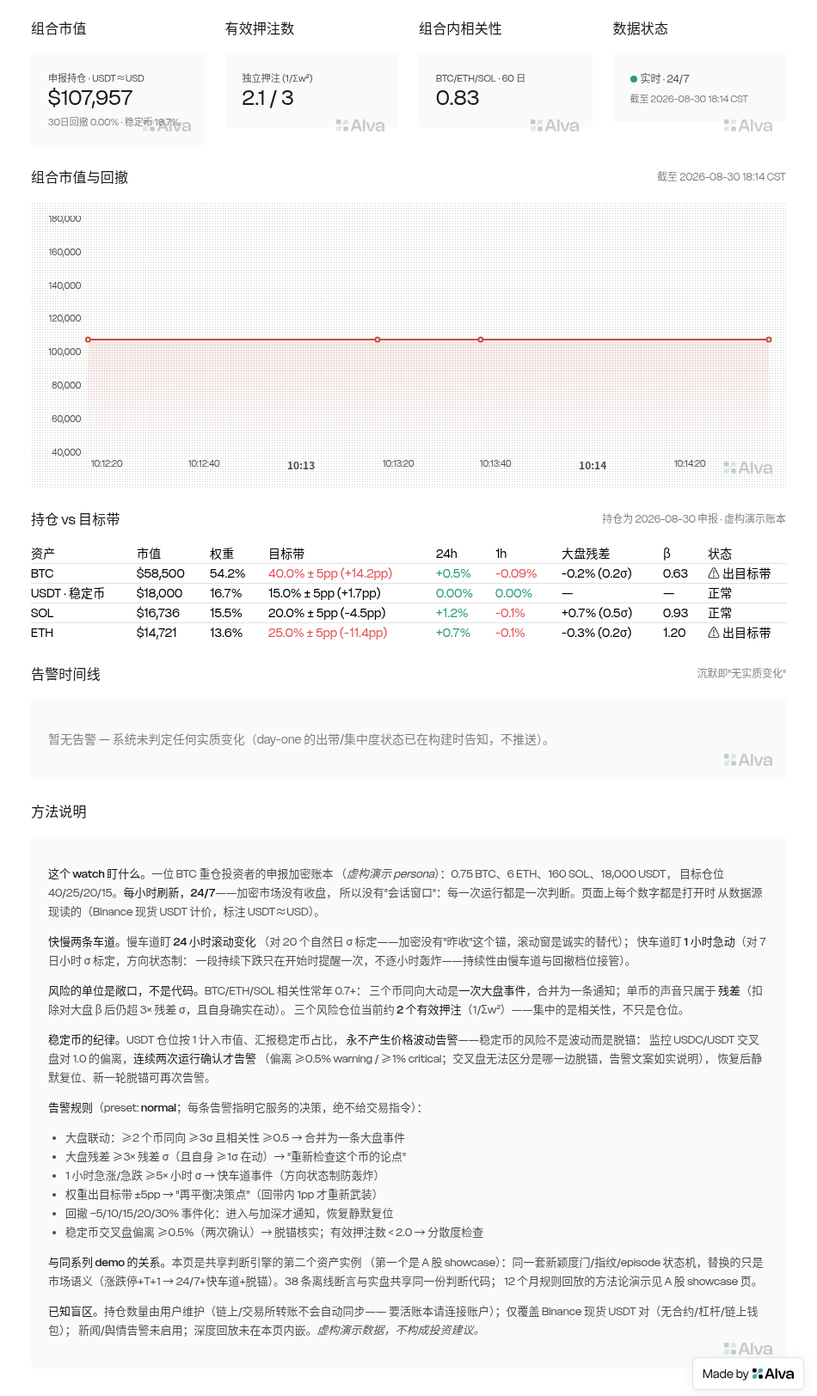
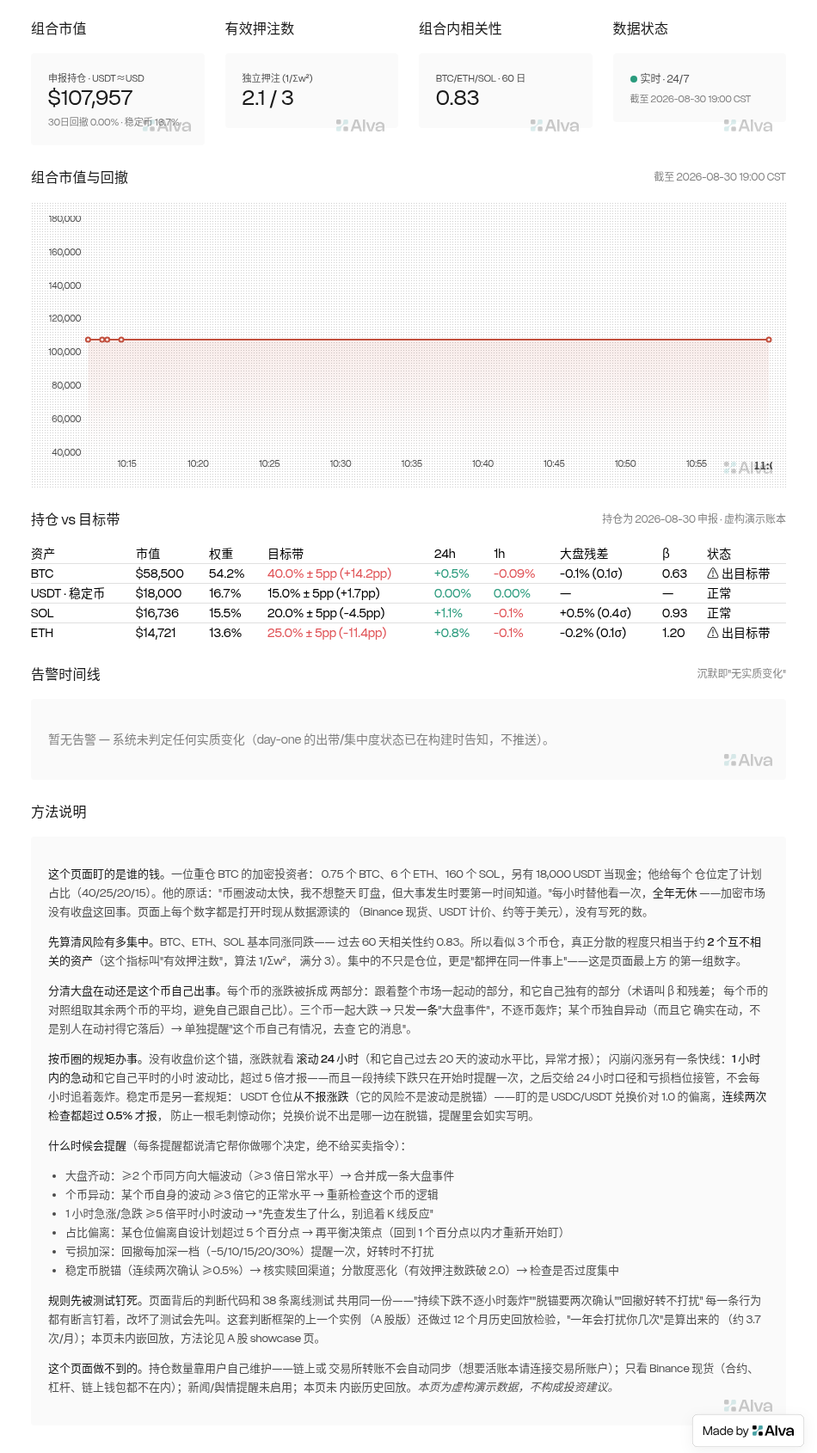
crypto-book v1.0.2: copy aligned to the showcase's three feedback rounds
Description rewritten as a numbered-list visitor opening (Markdown renders
in descriptions); method panel rewritten in the showcase's seven plain-
language sections (whose money / how concentrated / market vs single coin /
crypto-market rules / when it speaks / pinned by tests / what it can't do)
with every bare term replaced by plain-words-first-jargon-in-parentheses;
README restructured as persona's three questions + five principles +
decision-column rule table. Lint 0/0/0; deployed HTML byte-identical to
local; judgment logic unchanged. Evidence copies + e2e-log updated with
the archived description text.

diff --git a/demo-crypto-book/playbook/index.html b/demo-crypto-book/playbook/index.html
@@ -116,40 +116,49 @@
       <div class="widget-title"><span class="widget-title-text">方法说明</span></div>
       <div class="widget-body" style="background:var(--grey-g01);flex-direction:column;align-items:stretch;">
         <div class="free-text-body method-body" style="width:100%;">
-          <p><strong>这个 watch 盯什么。</strong>一位 BTC 重仓投资者的申报加密账本
-          （<em>虚构演示 persona</em>）：0.75 BTC、6 ETH、160 SOL、18,000 USDT，
-          目标仓位 40/25/20/15。<strong>每小时刷新，24/7</strong>——加密市场没有收盘，
-          所以没有"会话窗口"：每一次运行都是一次判断。页面上每个数字都是打开时
-          从数据源现读的（Binance 现货 USDT 计价，标注 USDT≈USD）。</p>
-          <p><strong>快慢两条车道。</strong>慢车道盯 <strong>24 小时滚动变化</strong>
-          （对 20 个自然日 σ 标定——加密没有"昨收"这个锚，滚动窗是诚实的替代）；
-          快车道盯 <strong>1 小时急动</strong>（对 7 日小时 σ 标定，方向状态制：
-          一段持续下跌只在开始时提醒一次，不逐小时轰炸——持续性由慢车道与回撤档位接管）。</p>
-          <p><strong>风险的单位是敞口，不是代码。</strong>BTC/ETH/SOL 相关性常年 0.7+：
-          三个币同向大动是<strong>一次大盘事件</strong>，合并为一条通知；单币的声音只属于
-          <strong>残差</strong>（扣除对大盘 β 后仍超 3× 残差 σ，且自身确实在动）。
-          三个风险仓位当前约 <strong>2 个有效押注</strong>（1/Σw²）——集中的是相关性，不只是仓位。</p>
-          <p><strong>稳定币的纪律。</strong>USDT 仓位按 1 计入市值、汇报稳定币占比，
-          <strong>永不产生价格波动告警</strong>——稳定币的风险不是波动而是脱锚：
-          监控 USDC/USDT 交叉盘对 1.0 的偏离，<strong>连续两次运行确认才告警</strong>
-          （偏离 ≥0.5% warning / ≥1% critical；交叉盘无法区分是哪一边脱锚，告警文案如实说明），
-          恢复后静默复位、新一轮脱锚可再次告警。</p>
-          <p><strong>告警规则</strong>（preset: <strong>normal</strong>；每条告警指明它服务的决策，绝不给交易指令）：</p>
+          <p><strong>这个页面盯的是谁的钱。</strong>一位重仓 BTC 的加密投资者：
+          0.75 个 BTC、6 个 ETH、160 个 SOL，另有 18,000 USDT 当现金；他给每个
+          仓位定了计划占比（40/25/20/15）。他的原话："币圈波动太快，我不想整天
+          盯盘，但大事发生时要第一时间知道。"每小时替他看一次，<strong>全年无休</strong>
+          ——加密市场没有收盘这回事。页面上每个数字都是打开时现从数据源读的
+          （Binance 现货、USDT 计价、约等于美元），没有写死的数。</p>
+          <p><strong>先算清风险有多集中。</strong>BTC、ETH、SOL 基本同涨同跌——
+          过去 60 天相关性约 0.83。所以看似 3 个币仓，真正分散的程度只相当于约
+          <strong>2 个互不相关的资产</strong>（这个指标叫"有效押注数"，算法 1/Σw²，
+          满分 3）。集中的不只是仓位，更是"都押在同一件事上"——这是页面最上方
+          的第一组数字。</p>
+          <p><strong>分清大盘在动还是这个币自己出事。</strong>每个币的涨跌被拆成
+          两部分：跟着整个市场一起动的部分，和它自己独有的部分（术语叫 β 和残差；
+          每个币的对照组取其余两个币的平均，避免自己跟自己比）。三个币一起大跌 →
+          只发<strong>一条</strong>"大盘事件"，不逐币轰炸；某个币独自异动（而且它
+          确实在动，不是别人在动衬得它落后）→ 单独提醒"这个币自己有情况，去查
+          它的消息"。</p>
+          <p><strong>按币圈的规矩办事。</strong>没有收盘价这个锚，涨跌就看
+          <strong>滚动 24 小时</strong>（和它自己过去 20 天的波动水平比，异常才报）；
+          闪崩闪涨另有一条快线：<strong>1 小时内的急动</strong>和它自己平时的小时
+          波动比，超过 5 倍才报——而且一段持续下跌只在开始时提醒一次，之后交给
+          24 小时口径和亏损档位接管，不会每小时追着轰炸。稳定币是另一套规矩：
+          USDT 仓位<strong>从不报涨跌</strong>（它的风险不是波动是脱锚）——盯的是
+          USDC/USDT 兑换价对 1.0 的偏离，<strong>连续两次检查都超过 0.5% 才报</strong>，
+          防止一根毛刺惊动你；兑换价说不出是哪一边在脱锚，提醒里会如实写明。</p>
+          <p><strong>什么时候会提醒</strong>（每条提醒都说清它帮你做哪个决定，绝不给买卖指令）：</p>
           <ul>
-            <li>大盘联动：≥2 个币同向 ≥3σ 且相关性 ≥0.5 → 合并为一条大盘事件</li>
-            <li>大盘残差 ≥3× 残差 σ（且自身 ≥1σ 在动）→ "重新检查这个币的论点"</li>
-            <li>1 小时急涨/急跌 ≥5× 小时 σ → 快车道事件（方向状态制防轰炸）</li>
-            <li>权重出目标带 ±5pp → "再平衡决策点"（回带内 1pp 才重新武装）</li>
-            <li>回撤 −5/10/15/20/30% 事件化：进入与加深才通知，恢复静默复位</li>
-            <li>稳定币交叉盘偏离 ≥0.5%（两次确认）→ 脱锚核实；有效押注数 &lt; 2.0 → 分散度检查</li>
+            <li>大盘齐动：≥2 个币同方向大幅波动（≥3 倍日常水平）→ 合并成一条大盘事件</li>
+            <li>个币异动：某个币自身的波动 ≥3 倍它的正常水平 → 重新检查这个币的逻辑</li>
+            <li>1 小时急涨/急跌 ≥5 倍平时小时波动 → "先查发生了什么，别追着 K 线反应"</li>
+            <li>占比偏离：某仓位偏离自设计划超过 5 个百分点 → 再平衡决策点（回到 1 个百分点以内才重新开始盯）</li>
+            <li>亏损加深：回撤每加深一档（−5/10/15/20/30%）提醒一次，好转时不打扰</li>
+            <li>稳定币脱锚（连续两次确认 ≥0.5%）→ 核实赎回渠道；分散度恶化（有效押注数跌破 2.0）→ 检查是否过度集中</li>
           </ul>
-          <p><strong>与同系列 demo 的关系。</strong>本页是共享判断引擎的第二个资产实例
-          （第一个是 A 股 showcase）：同一套新颖度门/指纹/episode 状态机，替换的只是
-          市场语义（涨跌停+T+1 → 24/7+快车道+脱锚）。38 条离线断言与实盘共享同一份判断代码；
-          12 个月规则回放的方法论演示见 A 股 showcase 页。</p>
-          <p><strong>已知盲区。</strong>持仓数量由用户维护（链上/交易所转账不会自动同步——
-          要活账本请连接账户）；仅覆盖 Binance 现货 USDT 对（无合约/杠杆/链上钱包）；
-          新闻/舆情告警未启用；深度回放未在本页内嵌。<em>虚构演示数据，不构成投资建议。</em></p>
+          <p><strong>规则先被测试钉死。</strong>页面背后的判断代码和 38 条离线测试
+          共用同一份——"持续下跌不逐小时轰炸""脱锚要两次确认""回撤好转不打扰"
+          每一条行为都有断言钉着，改坏了测试会先叫。这套判断框架的上一个实例
+          （A 股版）还做过 12 个月历史回放检验，"一年会打扰你几次"是算出来的
+          （约 3.7 次/月）；本页未内嵌回放，方法论见 A 股 showcase 页。</p>
+          <p><strong>这个页面做不到的。</strong>持仓数量靠用户自己维护——链上或
+          交易所转账不会自动同步（想要活账本请连接交易所账户）；只看 Binance
+          现货（合约、杠杆、链上钱包都不在内）；新闻/舆情提醒未启用；本页未
+          内嵌历史回放。<em>本页为虚构演示数据，不构成投资建议。</em></p>
         </div>
         <div class="alva-watermark"><img src="https://alva-ai-static.b-cdn.net/icons/alva-watermark.svg" alt="Alva" /></div>
       </div>

diff --git a/demo-evidence-crypto-book/10-playbook-index.html b/demo-evidence-crypto-book/10-playbook-index.html
@@ -116,40 +116,49 @@
       <div class="widget-title"><span class="widget-title-text">方法说明</span></div>
       <div class="widget-body" style="background:var(--grey-g01);flex-direction:column;align-items:stretch;">
         <div class="free-text-body method-body" style="width:100%;">
-          <p><strong>这个 watch 盯什么。</strong>一位 BTC 重仓投资者的申报加密账本
-          （<em>虚构演示 persona</em>）：0.75 BTC、6 ETH、160 SOL、18,000 USDT，
-          目标仓位 40/25/20/15。<strong>每小时刷新，24/7</strong>——加密市场没有收盘，
-          所以没有"会话窗口"：每一次运行都是一次判断。页面上每个数字都是打开时
-          从数据源现读的（Binance 现货 USDT 计价，标注 USDT≈USD）。</p>
-          <p><strong>快慢两条车道。</strong>慢车道盯 <strong>24 小时滚动变化</strong>
-          （对 20 个自然日 σ 标定——加密没有"昨收"这个锚，滚动窗是诚实的替代）；
-          快车道盯 <strong>1 小时急动</strong>（对 7 日小时 σ 标定，方向状态制：
-          一段持续下跌只在开始时提醒一次，不逐小时轰炸——持续性由慢车道与回撤档位接管）。</p>
-          <p><strong>风险的单位是敞口，不是代码。</strong>BTC/ETH/SOL 相关性常年 0.7+：
-          三个币同向大动是<strong>一次大盘事件</strong>，合并为一条通知；单币的声音只属于
-          <strong>残差</strong>（扣除对大盘 β 后仍超 3× 残差 σ，且自身确实在动）。
-          三个风险仓位当前约 <strong>2 个有效押注</strong>（1/Σw²）——集中的是相关性，不只是仓位。</p>
-          <p><strong>稳定币的纪律。</strong>USDT 仓位按 1 计入市值、汇报稳定币占比，
-          <strong>永不产生价格波动告警</strong>——稳定币的风险不是波动而是脱锚：
-          监控 USDC/USDT 交叉盘对 1.0 的偏离，<strong>连续两次运行确认才告警</strong>
-          （偏离 ≥0.5% warning / ≥1% critical；交叉盘无法区分是哪一边脱锚，告警文案如实说明），
-          恢复后静默复位、新一轮脱锚可再次告警。</p>
-          <p><strong>告警规则</strong>（preset: <strong>normal</strong>；每条告警指明它服务的决策，绝不给交易指令）：</p>
+          <p><strong>这个页面盯的是谁的钱。</strong>一位重仓 BTC 的加密投资者：
+          0.75 个 BTC、6 个 ETH、160 个 SOL，另有 18,000 USDT 当现金；他给每个
+          仓位定了计划占比（40/25/20/15）。他的原话："币圈波动太快，我不想整天
+          盯盘，但大事发生时要第一时间知道。"每小时替他看一次，<strong>全年无休</strong>
+          ——加密市场没有收盘这回事。页面上每个数字都是打开时现从数据源读的
+          （Binance 现货、USDT 计价、约等于美元），没有写死的数。</p>
+          <p><strong>先算清风险有多集中。</strong>BTC、ETH、SOL 基本同涨同跌——
+          过去 60 天相关性约 0.83。所以看似 3 个币仓，真正分散的程度只相当于约
+          <strong>2 个互不相关的资产</strong>（这个指标叫"有效押注数"，算法 1/Σw²，
+          满分 3）。集中的不只是仓位，更是"都押在同一件事上"——这是页面最上方
+          的第一组数字。</p>
+          <p><strong>分清大盘在动还是这个币自己出事。</strong>每个币的涨跌被拆成
+          两部分：跟着整个市场一起动的部分，和它自己独有的部分（术语叫 β 和残差；
+          每个币的对照组取其余两个币的平均，避免自己跟自己比）。三个币一起大跌 →
+          只发<strong>一条</strong>"大盘事件"，不逐币轰炸；某个币独自异动（而且它
+          确实在动，不是别人在动衬得它落后）→ 单独提醒"这个币自己有情况，去查
+          它的消息"。</p>
+          <p><strong>按币圈的规矩办事。</strong>没有收盘价这个锚，涨跌就看
+          <strong>滚动 24 小时</strong>（和它自己过去 20 天的波动水平比，异常才报）；
+          闪崩闪涨另有一条快线：<strong>1 小时内的急动</strong>和它自己平时的小时
+          波动比，超过 5 倍才报——而且一段持续下跌只在开始时提醒一次，之后交给
+          24 小时口径和亏损档位接管，不会每小时追着轰炸。稳定币是另一套规矩：
+          USDT 仓位<strong>从不报涨跌</strong>（它的风险不是波动是脱锚）——盯的是
+          USDC/USDT 兑换价对 1.0 的偏离，<strong>连续两次检查都超过 0.5% 才报</strong>，
+          防止一根毛刺惊动你；兑换价说不出是哪一边在脱锚，提醒里会如实写明。</p>
+          <p><strong>什么时候会提醒</strong>（每条提醒都说清它帮你做哪个决定，绝不给买卖指令）：</p>
           <ul>
-            <li>大盘联动：≥2 个币同向 ≥3σ 且相关性 ≥0.5 → 合并为一条大盘事件</li>
-            <li>大盘残差 ≥3× 残差 σ（且自身 ≥1σ 在动）→ "重新检查这个币的论点"</li>
-            <li>1 小时急涨/急跌 ≥5× 小时 σ → 快车道事件（方向状态制防轰炸）</li>
-            <li>权重出目标带 ±5pp → "再平衡决策点"（回带内 1pp 才重新武装）</li>
-            <li>回撤 −5/10/15/20/30% 事件化：进入与加深才通知，恢复静默复位</li>
-            <li>稳定币交叉盘偏离 ≥0.5%（两次确认）→ 脱锚核实；有效押注数 &lt; 2.0 → 分散度检查</li>
+            <li>大盘齐动：≥2 个币同方向大幅波动（≥3 倍日常水平）→ 合并成一条大盘事件</li>
+            <li>个币异动：某个币自身的波动 ≥3 倍它的正常水平 → 重新检查这个币的逻辑</li>
+            <li>1 小时急涨/急跌 ≥5 倍平时小时波动 → "先查发生了什么，别追着 K 线反应"</li>
+            <li>占比偏离：某仓位偏离自设计划超过 5 个百分点 → 再平衡决策点（回到 1 个百分点以内才重新开始盯）</li>
+            <li>亏损加深：回撤每加深一档（−5/10/15/20/30%）提醒一次，好转时不打扰</li>
+            <li>稳定币脱锚（连续两次确认 ≥0.5%）→ 核实赎回渠道；分散度恶化（有效押注数跌破 2.0）→ 检查是否过度集中</li>
           </ul>
-          <p><strong>与同系列 demo 的关系。</strong>本页是共享判断引擎的第二个资产实例
-          （第一个是 A 股 showcase）：同一套新颖度门/指纹/episode 状态机，替换的只是
-          市场语义（涨跌停+T+1 → 24/7+快车道+脱锚）。38 条离线断言与实盘共享同一份判断代码；
-          12 个月规则回放的方法论演示见 A 股 showcase 页。</p>
-          <p><strong>已知盲区。</strong>持仓数量由用户维护（链上/交易所转账不会自动同步——
-          要活账本请连接账户）；仅覆盖 Binance 现货 USDT 对（无合约/杠杆/链上钱包）；
-          新闻/舆情告警未启用；深度回放未在本页内嵌。<em>虚构演示数据，不构成投资建议。</em></p>
+          <p><strong>规则先被测试钉死。</strong>页面背后的判断代码和 38 条离线测试
+          共用同一份——"持续下跌不逐小时轰炸""脱锚要两次确认""回撤好转不打扰"
+          每一条行为都有断言钉着，改坏了测试会先叫。这套判断框架的上一个实例
+          （A 股版）还做过 12 个月历史回放检验，"一年会打扰你几次"是算出来的
+          （约 3.7 次/月）；本页未内嵌回放，方法论见 A 股 showcase 页。</p>
+          <p><strong>这个页面做不到的。</strong>持仓数量靠用户自己维护——链上或
+          交易所转账不会自动同步（想要活账本请连接交易所账户）；只看 Binance
+          现货（合约、杠杆、链上钱包都不在内）；新闻/舆情提醒未启用；本页未
+          内嵌历史回放。<em>本页为虚构演示数据，不构成投资建议。</em></p>
         </div>
         <div class="alva-watermark"><img src="https://alva-ai-static.b-cdn.net/icons/alva-watermark.svg" alt="Alva" /></div>
       </div>

diff --git a/demo-crypto-book/playbook/README.md b/demo-crypto-book/playbook/README.md
@@ -1,43 +1,66 @@
-# 加密申报账本监控（Crypto Book Demo）
+# 加密申报账本监控（Crypto Book）
 
-一位 BTC 重仓投资者的**申报加密账本**（虚构演示 persona）：0.75 BTC、6 ETH、
-160 SOL、18,000 USDT，目标仓位 40/25/20/15。每小时刷新，24/7——加密市场
-没有收盘，每一次运行都是一次判断。
+一位**重仓 BTC 的加密投资者**的风险监控页，由 portfolio-watch skill 从
+一句话构建。他的账本：0.75 BTC（约占五成四，重仓）、6 ETH、160 SOL，
+另有 18,000 USDT 当现金；他给每个仓位定了计划占比（40/25/20/15）。
+他的原话："币圈波动太快，我不想整天盯盘，但大事发生时要第一时间知道。"
 
-## 它盯什么
+这个页面回答的就是他这句话背后的三个问题：我的风险到底有多集中？大动
+的时候是整个市场在动还是我的币自己出事？什么时候需要我真的做点什么？
 
-- **快慢两条车道**：24 小时滚动变化（20 自然日 σ 标定）+ 1 小时急动
-  （7 日小时 σ 标定，方向状态制——持续下跌只在开始提醒一次，不逐小时轰炸）。
-- **敞口而非代码**：BTC/ETH/SOL 高相关，同向大动合并为一条大盘事件；
-  单币声音只属于残差（扣 β 后 ≥3× 残差 σ 且自身 ≥1σ 在动）。
-- **稳定币纪律**：USDT 按 1 计值、永不产生波动告警；脱锚经 USDC/USDT
-  交叉盘监控，连续两次运行确认才告警（≥0.5% warning / ≥1% critical）。
-- **状态化组合风险**：目标带 ±5pp 漂移（滞回重武装）、回撤 −5/10/15/20/30%
-  episode（进入/加深才响，恢复静默复位）、有效押注数 < 2.0 提示。
+## 五条设计原则
 
-## 更新节奏与数据
+1. **先算清"钱实际押在几件事上"。** 表面上持有 3 个币仓，但 BTC/ETH/SOL
+   基本同涨同跌（过去 60 天相关性约 0.83），再加上单币重仓——整本账的
+   分散程度只相当于约 **2 个互不相关的资产**（这个指标叫有效押注数，
+   算法 1/Σw²，满分 3）。这是页面最上方的第一组数字：他集中的不只是
+   仓位，更是相关性。
 
-每小时（cron `0 * * * *`，UTC）。价格来自 Binance 现货 USDT 对
-（USDT≈USD 标注）；页面每个数字打开时现读，不缓存、不硬编码。
+2. **分清"大盘在动"和"这个币自己出事"。** 每个币的涨跌被拆成两部分：
+   跟着整个市场一起动的部分，和它自己独有的部分（术语叫 β 与残差；每个
+   币的对照组取*其余*两币的平均，避免自己和自己比）。三个币一起大跌 →
+   合并成**一条**"大盘事件"，不逐币轰炸；某个币独自异动（且它确实在动，
+   不是别人在动衬得它落后）→ 单独提醒"这个币自己有情况，去查它的消息"。
+   重仓者最需要的正是这个区分。
 
-## 阈值一览（preset: normal）
+3. **按 24/7 市场的规矩办事。** 加密没有收盘价这个锚，涨跌看**滚动
+   24 小时**（和它自己过去 20 天的波动水平比）；闪崩闪涨另有一条快线
+   （1 小时急动和它平时的小时波动比，超 5 倍才报），而且一段持续下跌
+   只在开始提醒一次，之后交给 24 小时口径和亏损档位接管——不逐小时
+   轰炸。调度是每小时一次、全年无休：没有"会话窗口"，每次运行都是
+   一次判断。
 
-| 规则 | 阈值 | 严重级 |
+4. **稳定币不看波动，看脱锚。** USDT 仓位按 1 计入市值、汇报占比，
+   **从不产生涨跌提醒**——稳定币的风险不是波动是脱锚。脱锚监控走
+   USDC/USDT 兑换价对 1.0 的偏离，**连续两次检查确认才报**（≥0.5%
+   提醒 / ≥1% 最高级），防止一根毛刺惊动人；兑换价无法区分是哪一边
+   在脱锚，提醒文案如实说明。恢复正常后静默复位，下一轮脱锚可以再报。
+
+5. **每条提醒都说清"它帮你做哪个决定"，且规则先被测试钉死。** 是占比
+   偏离了自设计划该考虑再平衡，是某个币的逻辑要重新检查，还是亏损触到
+   了自己划的线——**绝不给买卖指令**。页面背后的判断代码与 38 条离线
+   测试共用同一份，"持续下跌不轰炸""脱锚两次确认""好转不打扰"每条行为
+   都有断言钉着。同一判断框架的 A 股实例还经过 12 个月历史回放检验
+   （约 3.7 次/月），方法论见 showcase 页。
+
+## 告警规则（preset: normal）
+
+| 规则 | 阈值 | 帮你做的决定 |
 |---|---|---|
-| 24h 波动 | ≥3σ / ≥6σ | warning / critical |
-| 1h 急动 | ≥5× 小时 σ / ≥7.5× | warning / critical |
-| 大盘残差 | ≥3× 残差 σ（自身 ≥1σ） | warning / critical |
-| 大盘联动 | ≥2 币同向 ≥3σ、相关性 ≥0.5 | 合并为一条 |
-| 脱锚 | 偏离 ≥0.5%（两次确认）/ ≥1% | warning / critical |
-| 目标带 | ±5pp（回带 1pp 重武装） | info |
-| 回撤 | −5/10/15/20/30% 档进入/加深 | warning / ≥15% critical |
+| 大盘齐动 | ≥2 个币同向 ≥3× 日常波动，且相关性 ≥0.5 → 合并一条 | 看整体风险限额，不逐币反应 |
+| 个币异动 | 该币自身部分的波动 ≥3× 它的正常水平（且自身确实在动） | 重新检查这个币的逻辑 |
+| 1 小时急动 | ≥5× 它平时的小时波动（持续行情只报开头一次） | 先查发生了什么，别追 K 线 |
+| 稳定币脱锚 | USDC/USDT 偏离 1.0 ≥0.5%，连续两次确认（≥1% 最高级） | 核实稳定币仓位的赎回渠道 |
+| 占比偏离 | 仓位占比偏离自设计划 ±5pp（回到 1pp 内才重新计数） | 再平衡决策点 |
+| 回撤 | −5/10/15/20/30% 逐档，进入与加深才报，好转不打扰 | 对照自己的风险限额 |
+| 分散度 | 有效押注数跌破 2.0 | 检查是否过度集中 |
 
-## 已知盲区（如实陈述）
+每次运行至多发**一条**汇总消息，按严重程度排序，带"打开 Playbook"按钮；
+同一件事只报一次，恶化才追报，好转只默默更新页面。
 
-持仓数量由用户维护（转账不自动同步——要活账本请连接账户）；仅 Binance
-现货 USDT 对（无合约/杠杆/链上钱包）；新闻/舆情告警未启用；深度回放
-未内嵌（方法论见 A 股 showcase）。交叉盘脱锚信号无法区分是哪一边脱锚，
-告警文案会如实说明。
+## 诚实声明
 
-*共享判断引擎的第二个资产实例（38 条离线断言与实盘共享同一份判断代码）。
-虚构演示数据，不构成投资建议。*
+持仓为用户申报并自行维护（链上/交易所转账不自动同步——要活账本请连接
+交易所账户）；只看 Binance 现货 USDT 对（合约、杠杆、链上钱包不在内）；
+新闻/舆情提醒未启用；本页未内嵌历史回放（方法论见 A 股 showcase）。
+**本页为虚构演示数据，不构成投资建议。**

diff --git a/demo-evidence-crypto-book/11-playbook-readme.md b/demo-evidence-crypto-book/11-playbook-readme.md
@@ -1,43 +1,66 @@
-# 加密申报账本监控（Crypto Book Demo）
+# 加密申报账本监控（Crypto Book）
 
-一位 BTC 重仓投资者的**申报加密账本**（虚构演示 persona）：0.75 BTC、6 ETH、
-160 SOL、18,000 USDT，目标仓位 40/25/20/15。每小时刷新，24/7——加密市场
-没有收盘，每一次运行都是一次判断。
+一位**重仓 BTC 的加密投资者**的风险监控页，由 portfolio-watch skill 从
+一句话构建。他的账本：0.75 BTC（约占五成四，重仓）、6 ETH、160 SOL，
+另有 18,000 USDT 当现金；他给每个仓位定了计划占比（40/25/20/15）。
+他的原话："币圈波动太快，我不想整天盯盘，但大事发生时要第一时间知道。"
 
-## 它盯什么
+这个页面回答的就是他这句话背后的三个问题：我的风险到底有多集中？大动
+的时候是整个市场在动还是我的币自己出事？什么时候需要我真的做点什么？
 
-- **快慢两条车道**：24 小时滚动变化（20 自然日 σ 标定）+ 1 小时急动
-  （7 日小时 σ 标定，方向状态制——持续下跌只在开始提醒一次，不逐小时轰炸）。
-- **敞口而非代码**：BTC/ETH/SOL 高相关，同向大动合并为一条大盘事件；
-  单币声音只属于残差（扣 β 后 ≥3× 残差 σ 且自身 ≥1σ 在动）。
-- **稳定币纪律**：USDT 按 1 计值、永不产生波动告警；脱锚经 USDC/USDT
-  交叉盘监控，连续两次运行确认才告警（≥0.5% warning / ≥1% critical）。
-- **状态化组合风险**：目标带 ±5pp 漂移（滞回重武装）、回撤 −5/10/15/20/30%
-  episode（进入/加深才响，恢复静默复位）、有效押注数 < 2.0 提示。
+## 五条设计原则
 
-## 更新节奏与数据
+1. **先算清"钱实际押在几件事上"。** 表面上持有 3 个币仓，但 BTC/ETH/SOL
+   基本同涨同跌（过去 60 天相关性约 0.83），再加上单币重仓——整本账的
+   分散程度只相当于约 **2 个互不相关的资产**（这个指标叫有效押注数，
+   算法 1/Σw²，满分 3）。这是页面最上方的第一组数字：他集中的不只是
+   仓位，更是相关性。
 
-每小时（cron `0 * * * *`，UTC）。价格来自 Binance 现货 USDT 对
-（USDT≈USD 标注）；页面每个数字打开时现读，不缓存、不硬编码。
+2. **分清"大盘在动"和"这个币自己出事"。** 每个币的涨跌被拆成两部分：
+   跟着整个市场一起动的部分，和它自己独有的部分（术语叫 β 与残差；每个
+   币的对照组取*其余*两币的平均，避免自己和自己比）。三个币一起大跌 →
+   合并成**一条**"大盘事件"，不逐币轰炸；某个币独自异动（且它确实在动，
+   不是别人在动衬得它落后）→ 单独提醒"这个币自己有情况，去查它的消息"。
+   重仓者最需要的正是这个区分。
 
-## 阈值一览（preset: normal）
+3. **按 24/7 市场的规矩办事。** 加密没有收盘价这个锚，涨跌看**滚动
+   24 小时**（和它自己过去 20 天的波动水平比）；闪崩闪涨另有一条快线
+   （1 小时急动和它平时的小时波动比，超 5 倍才报），而且一段持续下跌
+   只在开始提醒一次，之后交给 24 小时口径和亏损档位接管——不逐小时
+   轰炸。调度是每小时一次、全年无休：没有"会话窗口"，每次运行都是
+   一次判断。
 
-| 规则 | 阈值 | 严重级 |
+4. **稳定币不看波动，看脱锚。** USDT 仓位按 1 计入市值、汇报占比，
+   **从不产生涨跌提醒**——稳定币的风险不是波动是脱锚。脱锚监控走
+   USDC/USDT 兑换价对 1.0 的偏离，**连续两次检查确认才报**（≥0.5%
+   提醒 / ≥1% 最高级），防止一根毛刺惊动人；兑换价无法区分是哪一边
+   在脱锚，提醒文案如实说明。恢复正常后静默复位，下一轮脱锚可以再报。
+
+5. **每条提醒都说清"它帮你做哪个决定"，且规则先被测试钉死。** 是占比
+   偏离了自设计划该考虑再平衡，是某个币的逻辑要重新检查，还是亏损触到
+   了自己划的线——**绝不给买卖指令**。页面背后的判断代码与 38 条离线
+   测试共用同一份，"持续下跌不轰炸""脱锚两次确认""好转不打扰"每条行为
+   都有断言钉着。同一判断框架的 A 股实例还经过 12 个月历史回放检验
+   （约 3.7 次/月），方法论见 showcase 页。
+
+## 告警规则（preset: normal）
+
+| 规则 | 阈值 | 帮你做的决定 |
 |---|---|---|
-| 24h 波动 | ≥3σ / ≥6σ | warning / critical |
-| 1h 急动 | ≥5× 小时 σ / ≥7.5× | warning / critical |
-| 大盘残差 | ≥3× 残差 σ（自身 ≥1σ） | warning / critical |
-| 大盘联动 | ≥2 币同向 ≥3σ、相关性 ≥0.5 | 合并为一条 |
-| 脱锚 | 偏离 ≥0.5%（两次确认）/ ≥1% | warning / critical |
-| 目标带 | ±5pp（回带 1pp 重武装） | info |
-| 回撤 | −5/10/15/20/30% 档进入/加深 | warning / ≥15% critical |
+| 大盘齐动 | ≥2 个币同向 ≥3× 日常波动，且相关性 ≥0.5 → 合并一条 | 看整体风险限额，不逐币反应 |
+| 个币异动 | 该币自身部分的波动 ≥3× 它的正常水平（且自身确实在动） | 重新检查这个币的逻辑 |
+| 1 小时急动 | ≥5× 它平时的小时波动（持续行情只报开头一次） | 先查发生了什么，别追 K 线 |
+| 稳定币脱锚 | USDC/USDT 偏离 1.0 ≥0.5%，连续两次确认（≥1% 最高级） | 核实稳定币仓位的赎回渠道 |
+| 占比偏离 | 仓位占比偏离自设计划 ±5pp（回到 1pp 内才重新计数） | 再平衡决策点 |
+| 回撤 | −5/10/15/20/30% 逐档，进入与加深才报，好转不打扰 | 对照自己的风险限额 |
+| 分散度 | 有效押注数跌破 2.0 | 检查是否过度集中 |
 
-## 已知盲区（如实陈述）
+每次运行至多发**一条**汇总消息，按严重程度排序，带"打开 Playbook"按钮；
+同一件事只报一次，恶化才追报，好转只默默更新页面。
 
-持仓数量由用户维护（转账不自动同步——要活账本请连接账户）；仅 Binance
-现货 USDT 对（无合约/杠杆/链上钱包）；新闻/舆情告警未启用；深度回放
-未内嵌（方法论见 A 股 showcase）。交叉盘脱锚信号无法区分是哪一边脱锚，
-告警文案会如实说明。
+## 诚实声明
 
-*共享判断引擎的第二个资产实例（38 条离线断言与实盘共享同一份判断代码）。
-虚构演示数据，不构成投资建议。*
+持仓为用户申报并自行维护（链上/交易所转账不自动同步——要活账本请连接
+交易所账户）；只看 Binance 现货 USDT 对（合约、杠杆、链上钱包不在内）；
+新闻/舆情提醒未启用；本页未内嵌历史回放（方法论见 A 股 showcase）。
+**本页为虚构演示数据，不构成投资建议。**

diff --git a/demo-evidence-crypto-book/e2e-log.md b/demo-evidence-crypto-book/e2e-log.md
@@ -18,6 +18,7 @@ language 显式配置修正）。
 | 10:1x | **四门逐项验证**：alertOutput 已声明 ✓ / push_notify ✓ / ACTIVE binding ✓ / routing isEnabled → ch 5025 ✓（email enabled=false available=false 如实记录：web 是唯一 *available* 通道——enabled≠available 两态检查即 phase5 校准落地） | 08, 09 |
 | 10:2x | Playbook：中文页面（快慢双车道列、稳定币行、目标带偏离、告警时间线空态文案）；lint **0/0/0**；draft（playbook 9003）；feed 公开（虚构 persona 账本，页面显著声明）；**v1.0.0 发布**；截图门通过（NAV/持仓/出带标记全部真实渲染） | 10–13 |
 | 10:2x | **v1.0.1 发布**：description 按 showcase v2.0.2 的归档教训改写为访客视角大白话（初衷 + 页面替你看的四件事 + "没消息就是好消息"）；config 写入 playbook 深链（digest 带"打开 Playbook"按钮）。页面 HTML 与判断逻辑无变化 | — |
+| 11:0x | **v1.0.2 发布（用户反馈：对齐 showcase v2.0.2→v2.0.4 全部三轮教训）**：(a) description 改**编号列表 + 换行**（平台渲染 Markdown），四条=集中度/大盘 vs 个币/计划偏离与亏损档/脱锚，收尾"没消息就是好消息"；(b) 页面方法说明按 showcase 七段结构人话重写（盯谁的钱→风险多集中→大盘 vs 个币→币圈规矩→何时提醒→测试钉死→做不到的），"快慢车道/方向状态制/σ 标定/episode/折叠/重武装"等裸术语全部替换为先说事+括号术语；(c) README 按 persona 三问 + 五条设计原则 + "帮你做的决定"规则表重写。lint 0/0/0；线上 HTML 与本地**逐字节一致**；截图核验新文案渲染；判断逻辑无变化 | 10–13 |
 
 ## 本 demo 独有的展示点
 
@@ -53,3 +54,15 @@ language 显式配置修正）。
 调度成本：24 runs/天 × 1 credit。
 
 Share link: <https://alva.ai/u/lx79d/playbooks/portfolio-watch-crypto-book>
+
+## v1.0.2 description 全文（存档，元数据不落盘）
+
+> 我重仓了 BTC，还有些 ETH、SOL 和一笔 USDT。币圈波动太快，我不想整天盯盘，
+> 但大事发生时要第一时间知道。这个页面每小时替我看一次，全年无休：
+>
+> 1. 风险有多集中——三个币基本同涨同跌，看似 3 个仓位实际只相当于约 2 个独立押注
+> 2. 大动的时候，是整个市场在动，还是某个币自己出事
+> 3. 仓位占比有没有偏离我定的计划、亏损到了哪一档
+> 4. 稳定币有没有脱锚迹象（连续两次确认才报，不被毛刺惊动）
+>
+> 没消息就是好消息：同一件事只报一次，恶化才追报，好转只默默更新页面。
